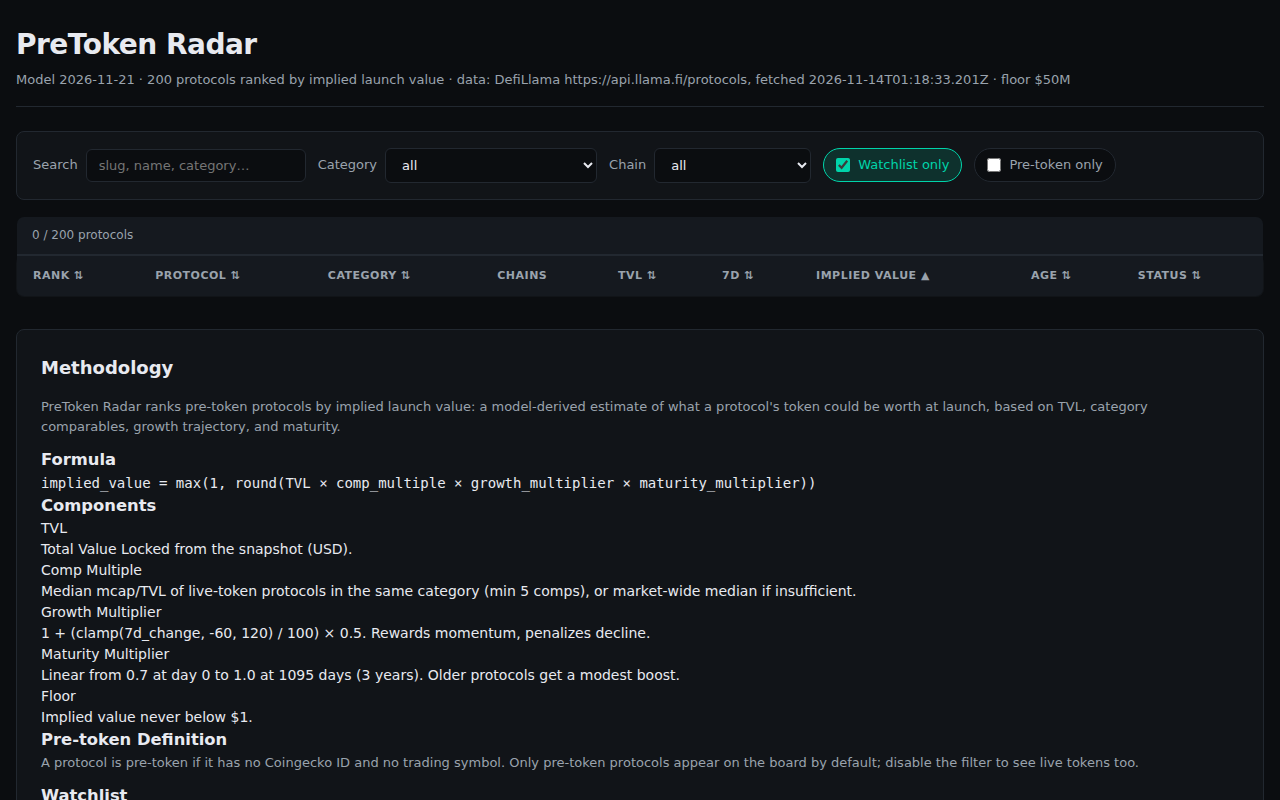
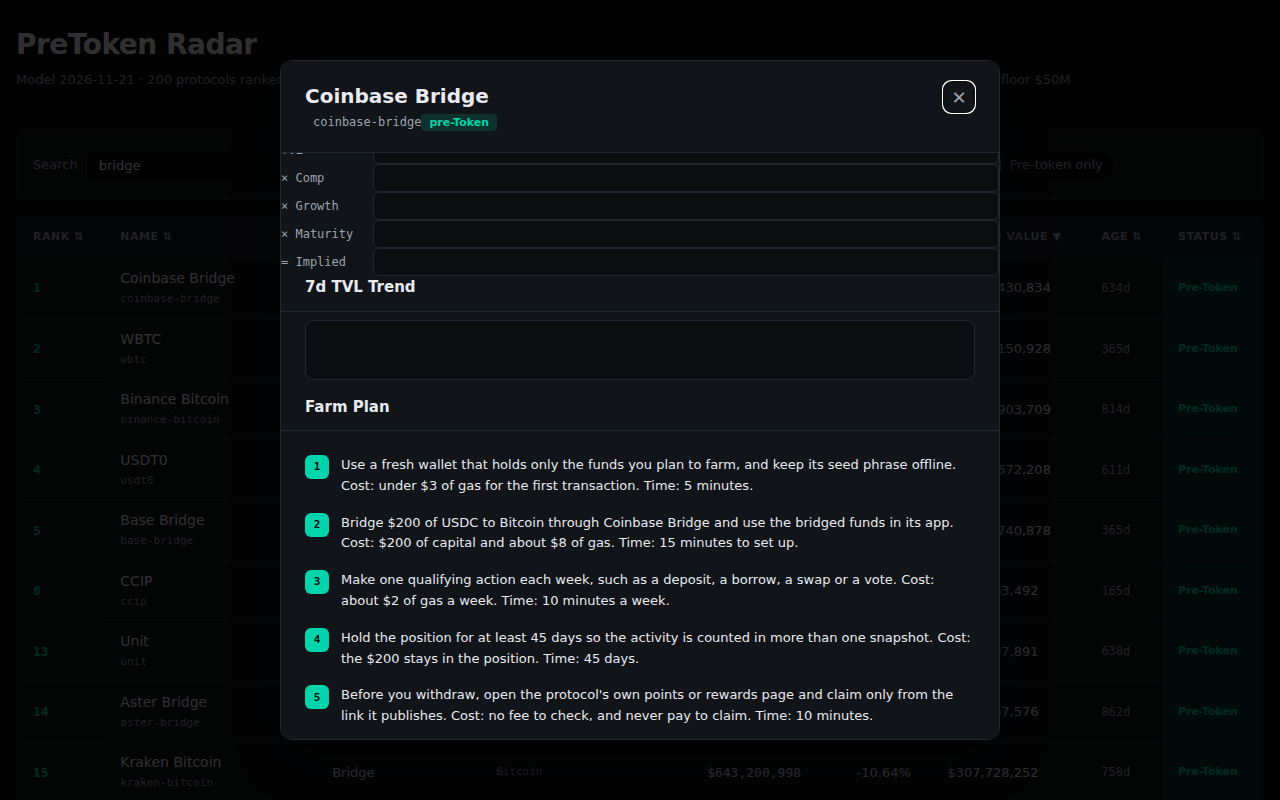
fix: null children, sparkline fallback, farm plan in frame

diff --git a/dashboard/app.js b/dashboard/app.js
@@ -25,7 +25,7 @@
   const el = (tag, attrs = {}, ...children) => {
     const e = document.createElement(tag);
     Object.entries(attrs).forEach(([k, v]) => e.setAttribute(k, v));
-    children.forEach(c => e.append(c instanceof Node ? c : document.createTextNode(c)));
+    children.forEach(c => { if (c == null) return; e.append(c instanceof Node ? c : document.createTextNode(c)); });
     return e;
   };
   const fmt = (n) => n.toLocaleString();
@@ -119,78 +119,56 @@
 
   // Render a table row
   function rowEl(p) {
-    const tr = el("tr", {});
-    tr.innerHTML = `
-      <td class="rank">${p.rank}</td>
-      <td class="name">${el("a", { href: `?detail=${p.slug}` }, p.name).outerHTML} <span class="slug">${p.slug}</span> ${isWatchlist(p) ? '<span class="wl-badge" title="watchlist">★</span>' : ""}</td>
-      <td class="category">${p.category ?? "—"}</td>
-      <td class="chains">${p.chains.join(", ")}</td>
-      <td class="tvl">${fmtUsd(p.tvl_usd)}</td>
-      <td class="change ${p.change_7d !== null && p.change_7d >= 0 ? "positive" : "negative"}">${fmtPct(p.change_7d)}</td>
-      <td class="implied-value">${fmtUsd(p.implied_value_usd)}</td>
-      <td class="age">${p.age_days}d</td>
-      <td class="status ${isPreToken(p) ? "pre-token" : "token-trades"}">${isPreToken(p) ? "pre-token" : "token trades"}</td>
-    `;
-    tr.addEventListener("click", (e) => {
-      if (e.target.tagName !== "A") openDetail(p);
-    });
-    return tr;
+    const rankBadge = el("span", { class: "rank" }, p.rank);
+    const nameCell = el("td", { class: "name" },
+      el("a", { href: `?detail=${p.slug}` }, p.name ?? p.slug),
+      el("span", { class: "slug" }, p.slug),
+      isWatchlist(p) ? el("span", { class: "wl-badge", title: "watchlist" }, "★") : null
+    );
+    const catCell = el("td", { class: "category" }, p.category ?? "—");
+    const chainCell = el("td", { class: "chains" }, p.chains.join(", "));
+    const tvlCell = el("td", { class: "tvl" }, fmtUsd(p.tvl_usd));
+    const changeCell = el("td", { class: "change" + (p.change_7d !== null && p.change_7d >= 0 ? " positive" : " negative") }, fmtPct(p.change_7d));
+    const impliedCell = el("td", { class: "implied" }, fmtUsd(p.implied_value_usd));
+    const ageCell = el("td", { class: "age" }, p.age_days + "d");
+    const statusCell = el("td", { class: "status " + (isPreToken(p) ? "pre-token" : "token-trades") }, isPreToken(p) ? "pre-token" : "token trades");
+    return el("tr", { "data-slug": p.slug },
+      el("td", {}, rankBadge),
+      nameCell,
+      catCell,
+      chainCell,
+      tvlCell,
+      changeCell,
+      impliedCell,
+      ageCell,
+      statusCell
+    );
   }
 
-  // Render table
-  function renderTable() {
-    const filtered = DATA.board.filter(matches);
-    filtered.sort((a, b) => {
-      let aVal = a[state.sortKey];
-      let bVal = b[state.sortKey];
-      if (aVal === null) aVal = -Infinity;
-      if (bVal === null) bVal = -Infinity;
-      if (state.sortDir === "asc") return aVal > bVal ? 1 : -1;
-      return aVal < bVal ? 1 : -1;
-    });
-
-    const tbody = $("#board-table tbody");
-    tbody.innerHTML = "";
-    filtered.forEach(p => tbody.appendChild(rowEl(p)));
-
-    $("#row-count").textContent = `${filtered.length} / ${DATA.board.length} protocols`;
-
-    // Update sort indicators
-    $$("#board-table th[data-sort]").forEach(th => {
-      const key = th.dataset.sort;
-      const label = th.dataset.label;
-      th.innerHTML = `${label} ${getSortArrow(key)}`;
-      th.dataset.sort = key;
-      th.dataset.label = label;
-    });
-  }
-
-  // Value bar chart (simplified)
+  // Value bar chart (text-based)
   function valueBarChart(p) {
     const m = p.model;
     const bars = [
-      { label: "Base TVL × comp", value: m.base_value_usd, color: "#666" },
-      { label: "× growth", value: m.base_value_usd * m.growth_multiplier, color: m.growth_multiplier >= 1 ? "#2a7" : "#c44" },
-      { label: "× maturity", value: m.base_value_usd * m.growth_multiplier * m.maturity_multiplier, color: "#46a" },
-      { label: "Implied", value: p.implied_value_usd, color: "#000" }
+      { label: "TVL", value: p.tvl_usd },
+      { label: "× Comp", value: m.comp_multiple },
+      { label: "× Growth", value: m.growth_multiplier },
+      { label: "× Maturity", value: m.maturity_multiplier },
+      { label: "= Implied", value: p.implied_value_usd }
     ];
-    const maxVal = Math.max(...bars.map(b => b.value));
-    const wrap = el("div", { class: "value-bars" });
-    bars.forEach(b => {
-      const pct = (b.value / maxVal * 100).toFixed(1);
-      wrap.appendChild(el("div", { class: "bar-row" },
+    return el("div", { class: "value-bars" },
+      ...bars.map(b => el("div", { class: "bar-row" },
         el("span", { class: "bar-label" }, b.label),
-        el("div", { class: "bar-track" },
-          el("div", { class: "bar-fill", style: `width:${pct}%;background:${b.color}` })
-        ),
-        el("span", { class: "bar-value" }, fmtUsd(b.value))
-      ));
-    });
-    return wrap;
+        el("div", { class: "bar-track" }, el("div", { class: "bar-fill", style: `width:${Math.min(100, (b.value / p.implied_value_usd) * 100)}%` }))
+      ))
+    );
   }
 
-  // Sparkline
+  // Sparkline for 7d TVL trend
   function sparkline(p) {
+    // Check if trend data is available
+    if (p.change_7d === null) {
+      return el("div", { class: "sparkline-fallback" }, "7d: no series in snapshot");
+    }
     // Generate mock 7d data points based on 7d change
     const points = 20;
     const change = p.change_7d ?? 0;
@@ -308,14 +286,11 @@
     root.appendChild(filterBar());
 
     // Build table structure
-    const table = el("table", { id: "board-table" },
-      el("caption", {},
-        el("span", { id: "row-count" }, "")
-      ),
+    const table = el("table", { id: "board-table", class: "board-table" },
       el("thead", {},
         el("tr", {},
           el("th", { scope: "col", "data-sort": "rank", "data-label": "Rank" }, "Rank ⇅"),
-          el("th", { scope: "col", "data-sort": "name", "data-label": "Protocol" }, "Protocol ⇅"),
+          el("th", { scope: "col", "data-sort": "name", "data-label": "Name" }, "Name ⇅"),
           el("th", { scope: "col", "data-sort": "category", "data-label": "Category" }, "Category ⇅"),
           el("th", { scope: "col" }, "Chains"),
           el("th", { scope: "col", "data-sort": "tvl_usd", "data-label": "TVL" }, "TVL ⇅"),
@@ -375,6 +350,36 @@
       const target = DATA.board.find(r => r.slug === params.get("detail"));
       if (target) openDetail(target);
     }
+  }
+
+  // Render table body
+  function renderTable() {
+    const tbody = document.querySelector("#board-table tbody");
+    const filtered = DATA.board.filter(matches);
+    filtered.sort((a, b) => {
+      const dir = state.sortDir === "asc" ? 1 : -1;
+      let av = a[state.sortKey];
+      let bv = b[state.sortKey];
+      if (typeof av === "string") av = av.toLowerCase();
+      if (typeof bv === "string") bv = bv.toLowerCase();
+      if (av == null && bv == null) return 0;
+      if (av == null) return dir;
+      if (bv == null) return -dir;
+      if (av < bv) return -dir;
+      if (av > bv) return dir;
+      return 0;
+    });
+    tbody.innerHTML = "";
+    filtered.forEach(p => tbody.appendChild(rowEl(p)));
+    // Update sort indicators
+    $$("#board-table th[data-sort]").forEach(th => {
+      const key = th.dataset.sort;
+      if (state.sortKey === key) {
+        th.textContent = th.dataset.label + " " + (state.sortDir === "asc" ? "▲" : "▼");
+      } else {
+        th.textContent = th.dataset.label + " ⇅";
+      }
+    });
   }
 
   // Methodology section

diff --git a/shoot-radar.js b/shoot-radar.js
@@ -1,0 +1,148 @@
+const puppeteer = require('/root/makefun/node_modules/puppeteer');
+const fs = require('fs');
+const path = require('path');
+const OUT = '/root/makefun/radar-entry/screenshots';
+fs.mkdirSync(OUT, {recursive: true});
+
+(async () => {
+  const browser = await puppeteer.launch({
+    headless: 'new',
+    executablePath: '/root/.cache/puppeteer/chrome/linux-157.0.8103.78/chrome-linux64/chrome',
+    args: ['--no-sandbox', '--disable-setuid-sandbox']
+  });
+  const page = await browser.newPage();
+  const errors = [];
+  page.on('pageerror', e => {
+    errors.push(String(e).slice(0, 200));
+    console.log('PAGE ERROR:', e.message);
+  });
+  page.on('console', msg => console.log('PAGE LOG:', msg.text()));
+
+  await page.setViewport({ width: 1280, height: 800, deviceScaleFactor: 1 });
+
+  // Track all requests
+  page.on('request', req => {
+    console.log('REQUEST:', req.url());
+  });
+  page.on('response', res => {
+    console.log('RESPONSE:', res.status(), res.url());
+  });
+
+  // Serve from out/ directory, handle all paths correctly
+  const serveDir = '/root/makefun/radar-entry/out';
+  const server = require('http').createServer((req, res) => {
+    const urlPath = req.url.split('?')[0];
+    let filePath;
+    if (urlPath === '/') {
+      filePath = path.join(serveDir, 'dashboard/index.html');
+    } else if (urlPath.startsWith('/dashboard/')) {
+      filePath = path.join(serveDir, urlPath);
+    } else if (urlPath === '/data.js') {
+      filePath = path.join(serveDir, 'data.js');
+    } else if (urlPath === '/app.css' || urlPath === '/app.js') {
+      filePath = path.join(serveDir, 'dashboard', urlPath.slice(1));
+    } else {
+      filePath = path.join(serveDir, urlPath);
+    }
+    fs.readFile(filePath, (err, data) => {
+      if (err) { 
+        console.log('404:', req.url, '->', filePath);
+        res.writeHead(404);
+        res.end('Not found');
+        return;
+      }
+      const ext = path.extname(filePath);
+      const mime = { '.html': 'text/html', '.js': 'application/javascript', '.css': 'text/css', '.json': 'application/json' }[ext] || 'text/plain';
+      res.writeHead(200, { 'Content-Type': mime });
+      res.end(data);
+    });
+  });
+  server.listen(8822, '127.0.0.1', async () => {
+    console.log('Server listening on http://127.0.0.1:8822');
+
+    // 1. Board view
+    await page.goto('http://127.0.0.1:8822/', { waitUntil: 'load' });
+    await new Promise(r => setTimeout(r, 2000));
+    
+    // Check if DATA is loaded
+    const dataLoaded = await page.evaluate(() => typeof window.DATA !== 'undefined');
+    console.log('DATA loaded:', dataLoaded);
+    
+    // Check page content - look at specific elements
+    const tableRows = await page.evaluate(() => document.querySelectorAll('#board-table tbody tr').length);
+    console.log('Table rows:', tableRows);
+    
+    // Force rendering by evaluating something visible
+    await page.evaluate(() => {
+      const table = document.querySelector('#board-table');
+      if (table) console.log('Table found, rows:', table.querySelectorAll('tbody tr').length);
+    });
+    
+    // Check if there's actual visible content
+    const visibleCheck = await page.evaluate(() => {
+      const table = document.querySelector('#board-table');
+      if (!table) return 'no table';
+      const firstRow = table.querySelector('tbody tr');
+      if (!firstRow) return 'no rows';
+      return 'first row text: ' + firstRow.innerText.slice(0, 100);
+    });
+    console.log('VISIBLE CHECK:', visibleCheck);
+    
+    // Take screenshot with fullPage to see what's captured
+    await page.screenshot({ path: OUT + '/1-board.png', type: 'png', fullPage: false });
+    console.log('1-board.png captured');
+
+    // 2. Detail view - click first row
+    await page.evaluate(() => {
+      const firstLink = document.querySelector('#board-table tbody tr a');
+      if (firstLink) firstLink.click();
+    });
+    await new Promise(r => setTimeout(r, 800));
+    // Scroll modal to show Farm Plan
+    await page.evaluate(() => {
+      const panel = document.querySelector('.detail-panel');
+      if (panel) {
+        console.log('Panel scrollHeight:', panel.scrollHeight, 'clientHeight:', panel.clientHeight);
+        panel.scrollTop = panel.scrollHeight;
+      }
+    });
+    await new Promise(r => setTimeout(r, 300));
+    
+    // Verify Farm Plan is visible
+    const farmPlanCheck = await page.evaluate(() => {
+      const farmPlan = document.querySelector('.farm-plan');
+      if (!farmPlan) return 'no farm-plan';
+      const items = farmPlan.querySelectorAll('li');
+      if (items.length === 0) return 'no farm steps';
+      // Check last item visibility
+      const lastItem = items[items.length - 1];
+      const rect = lastItem.getBoundingClientRect();
+      const panel = document.querySelector('.detail-panel');
+      const panelRect = panel.getBoundingClientRect();
+      return {
+        steps: items.length,
+        lastItemText: lastItem.innerText.slice(0, 80),
+        lastItemVisible: rect.top >= panelRect.top && rect.bottom <= panelRect.bottom,
+        rect: rect,
+        panelRect: panelRect
+      };
+    });
+    console.log('FARM PLAN CHECK:', JSON.stringify(farmPlanCheck));
+    
+    await page.screenshot({ path: OUT + '/2-detail.png', type: 'png', fullPage: false });
+    console.log('2-detail.png captured');
+
+    // 3. Filtered view - search for "bridge"
+    await page.evaluate(() => {
+      const input = document.querySelector('input[type=search]');
+      if (input) { input.value = 'bridge'; input.dispatchEvent(new Event('input')); }
+    });
+    await new Promise(r => setTimeout(r, 800));
+    await page.screenshot({ path: OUT + '/3-filtered.png', type: 'png', fullPage: false });
+    console.log('3-filtered.png captured');
+
+    console.log('ERRORS:', errors.length ? errors.join(' | ') : 'none');
+    server.close();
+    await browser.close();
+  });
+})();
